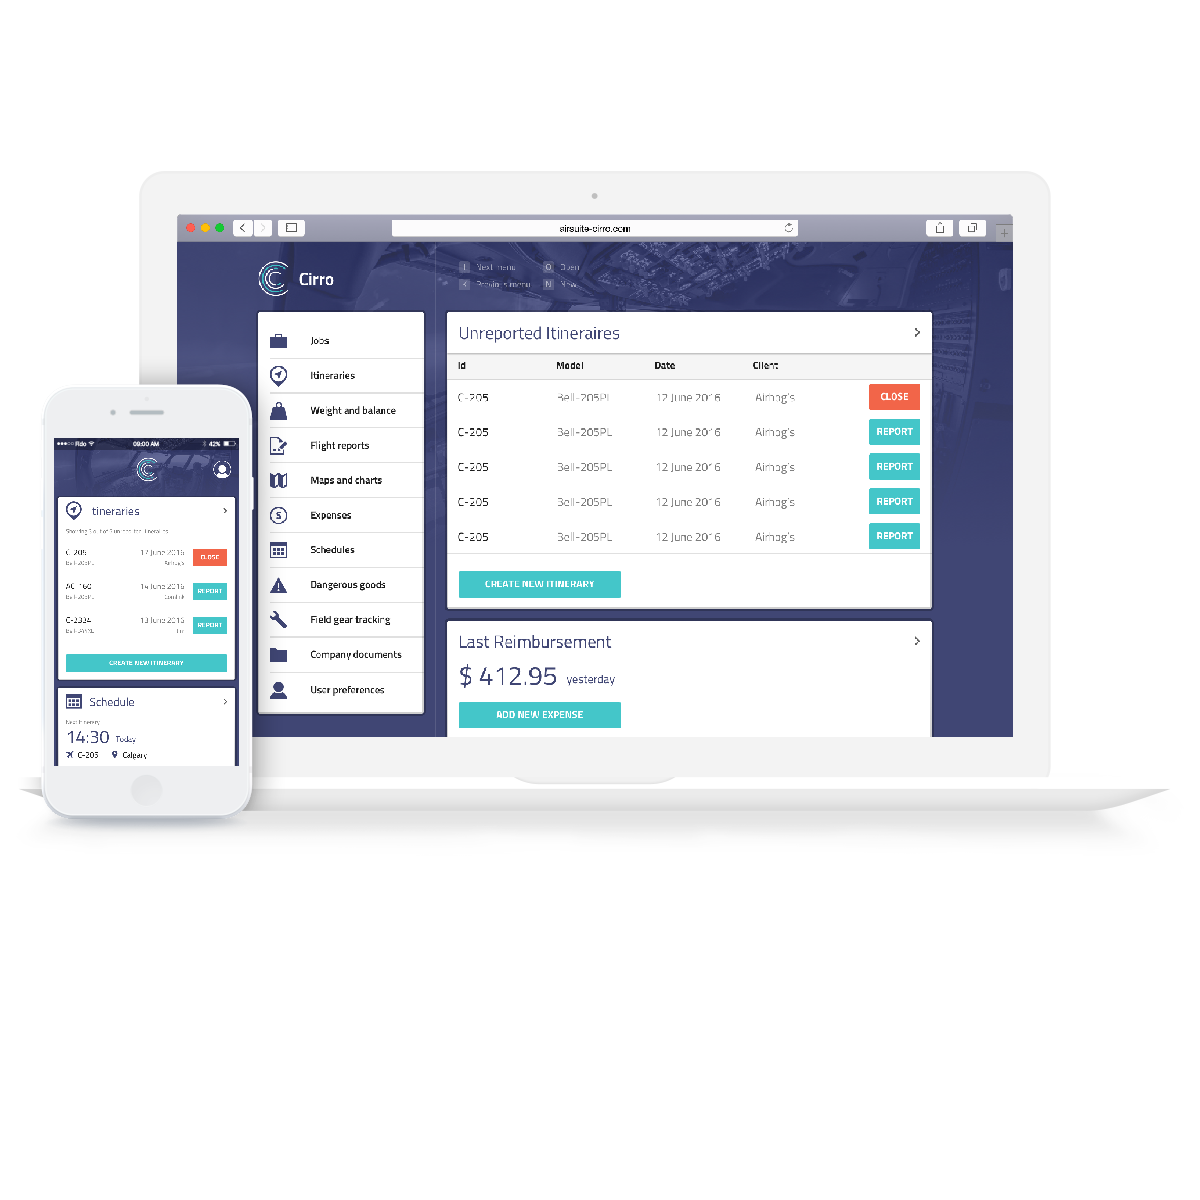
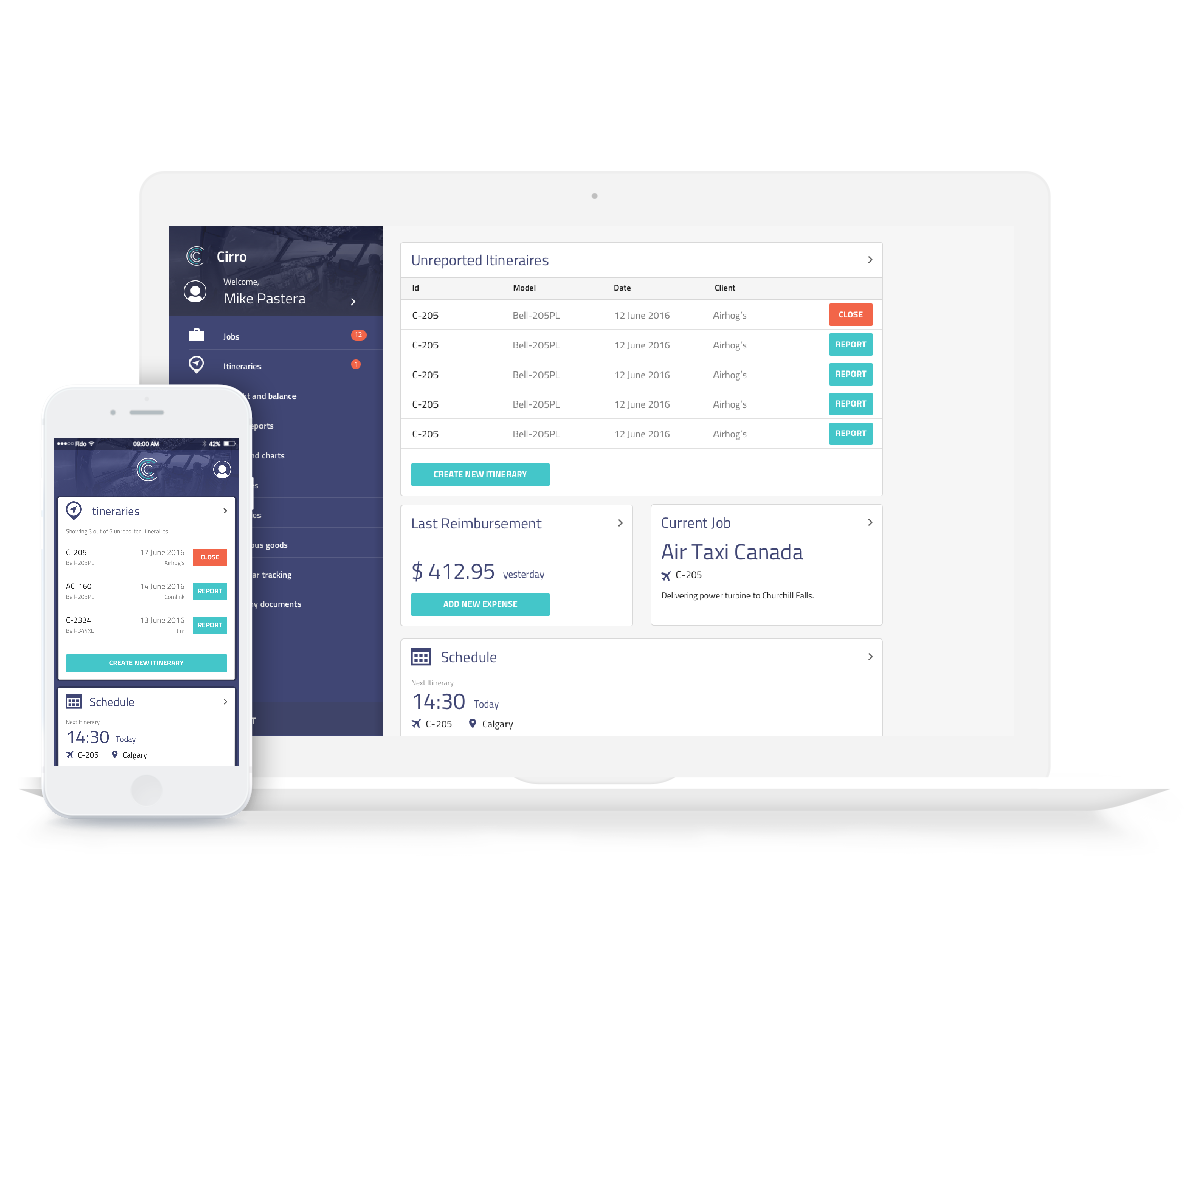
new CR

Changed region(s): [[0.1233, 0.1542, 0.8633, 0.6167], [0.555, 0.4317, 0.6783, 0.4625]]

diff --git a/posts/cr/page.html b/posts/cr/page.html
@@ -74,7 +74,7 @@
             platforms the operators uses Cirro 2.0 was designed to be adaptive
             to multiple screens and hardware. E.g: phone, tablet, desktop.
             </p>
-            <h3>To strengthen the information architecture and navigation to decrease cognitive load and increase productivity.</h3>
+            <h3>To create patterns easily recognizable by the users</h3>
             <p class="body">
                 Display relevant information for pilots that are critical at each stage in the user flow. Red routes were defined
                 at the project kick-off so that to prioritize where to improve the usability of the product.
@@ -89,7 +89,7 @@
                 travel on desktop where
             </p>
         </section>
-
+<!--
         <section class="container-960 animated fadeInUp">
             <div class="divider"></div>
             <h2>Business goals</h2>
@@ -104,7 +104,7 @@
 
             <h3>Expand to other markets other that Canada</h3>
             <p class="body">Making sure localisation does  not break the software</p>
-        </section>
+        </section> -->
 
         <section class="container-960 animated fadeInUp">
             <div class="divider"></div>
@@ -248,7 +248,15 @@
 
         <section class="container-960 animated fadeInUp">
             <div class="divider"></div>
-            <h2>HAND OFF</h2>
+            <h2>Final Design</h2>
+
+            <div class="image row">
+                <div class="col-lg-10 col-lg-offset-1 col-md-10 col-md-offset-1 col-sm-10 col-sm-offset-1 col-xs-12">
+                    <img src="img/desktop.png" alt="">
+                    <div class="caption align-centre">Cirro mobile and web app</div>
+                </div>
+            </div>
+
             <p class="body">
                 I worked close with the developers to build a functional staging version
                 of the redesigned product which was showcased at HAC tradeshow.

diff --git a/posts/ep/page.html b/posts/ep/page.html
@@ -136,6 +136,14 @@
 				future posters. The site is designed to be fully responsive, this was
 				possible using grid layout. <a href="http://uwengplay.com">Click here</a> to visit the site.
 			</p>
+
+			<div class="image row">
+				<div class="col-lg-10 col-lg-offset-1 col-md-10 col-md-offset-1 col-sm-10 col-sm-offset-1 col-xs-12">
+					<img src="img/purchase_funnel.jpg" alt="">
+					<div class="caption align-centre"></div>
+				</div>
+			</div>
+
 				<div class="image row">
 					<div class="col-lg-12 col-md-12 col-sm-12 col-xs-12">
 						<img src="img/website.jpg" alt="">
